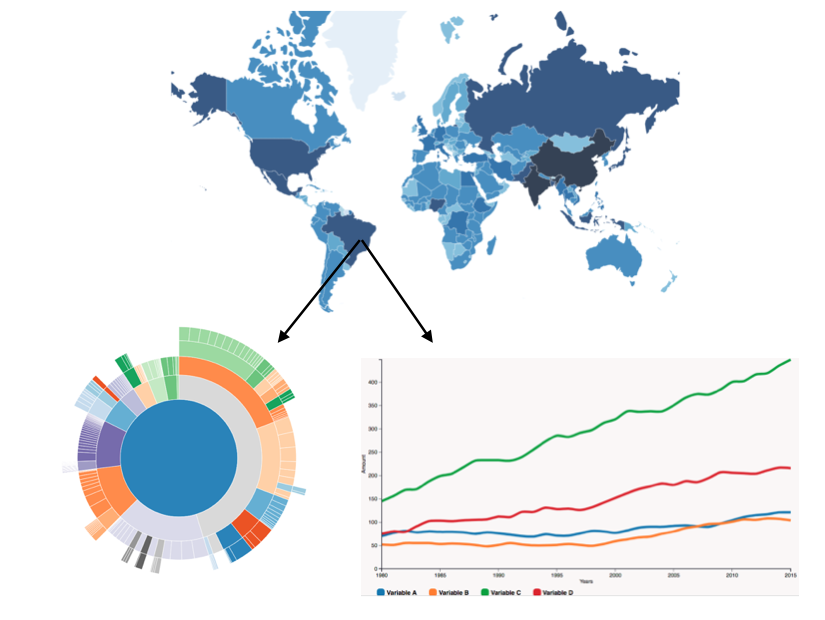
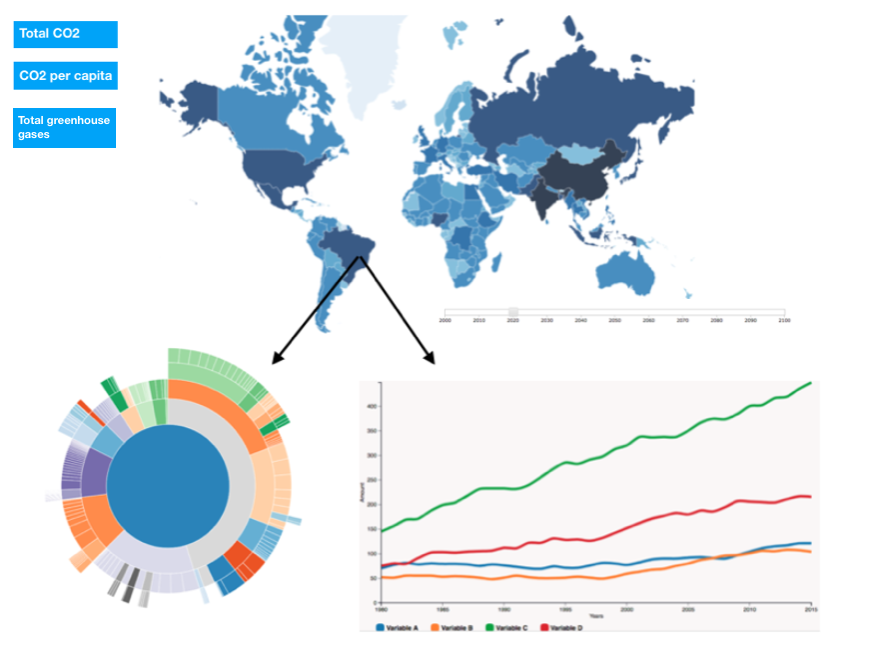
update readme

diff --git a/README.md b/README.md
@@ -17,13 +17,22 @@ This project will visualize the impact of meat and diary production on our clima
 ![Sketch.png](https://github.com/11096187/programmeerproject/blob/master/doc/Sketch.png)
 
 #### Main features
-- A world map with color gradients showing the amount of CO2 emission per country. The map will contain **two buttons** with which you can choose to see the total CO2 emission of a country or the CO2 emission per capita. With a **slider** you can change the year of the data. When you **click** on a country on a map, the corresponding data of the country will be shown in the multiline chart and the zoomable sunburst. Without clicking, data about the world as a whole will be shown.
-- A multiline chart shows information about for example CO2 emissions and production of meat and crops over the years.
-- A zoomable sunburst shows from on what contents the CO2 emission is based.
+- A **world map** with color gradients showing the amount of greenhouse gases per country. The map will contain **two buttons** with which you can choose to see the total CO2 emission of a country, the total of greenhouse gases or the CO2 emission per capita. With a **slider** you can change the year of the data. When you **click** on a country on a map, the corresponding data of the country will be shown in the multiline chart and the zoomable sunburst. Without clicking, data about the world as a whole will be shown.
+- A **multiline chart** shows information about for example CO2 emissions and production of meat and crops over the years.
+- A **sunburst** shows from on what contents the CO2 emission is based.
 
 ### Prerequisites
 #### Data sources
-- https://data.worldbank.org/indicator/EN.ATM.CO2E.PC?end=2014&start=1960&view=chart
+- **Total greenhouse gases emissions per country**:
+https://data.worldbank.org/indicator/EN.ATM.GHGT.KT.CE
+- **Total CO2 emission**:
+ https://data.worldbank.org/indicator/EN.ATM.CO2E.KT?end=2014&start=1960&view=chart
+- **CO2 emission per capita**:
+https://data.worldbank.org/indicator/EN.ATM.CO2E.PC?view=chart
+- **Agricultural methane emissions (% of total)**
+https://data.worldbank.org/indicator/EN.ATM.METH.AG.ZS?view=chart
+- **Agricultural methane emissions (thousand metric tons of CO2 equivalent)**
+https://data.worldbank.org/indicator/EN.ATM.METH.AG.KT.CE?view=chart
 
 #### External components
 - d3
